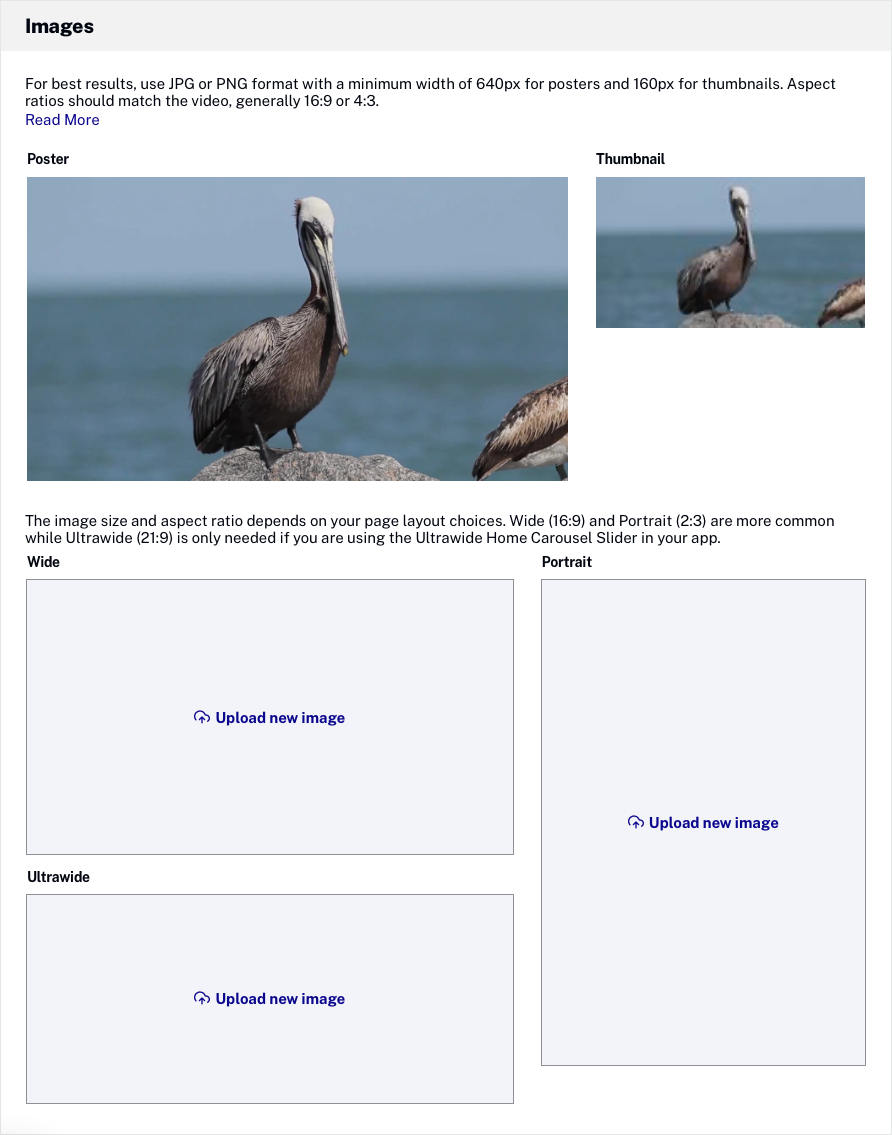
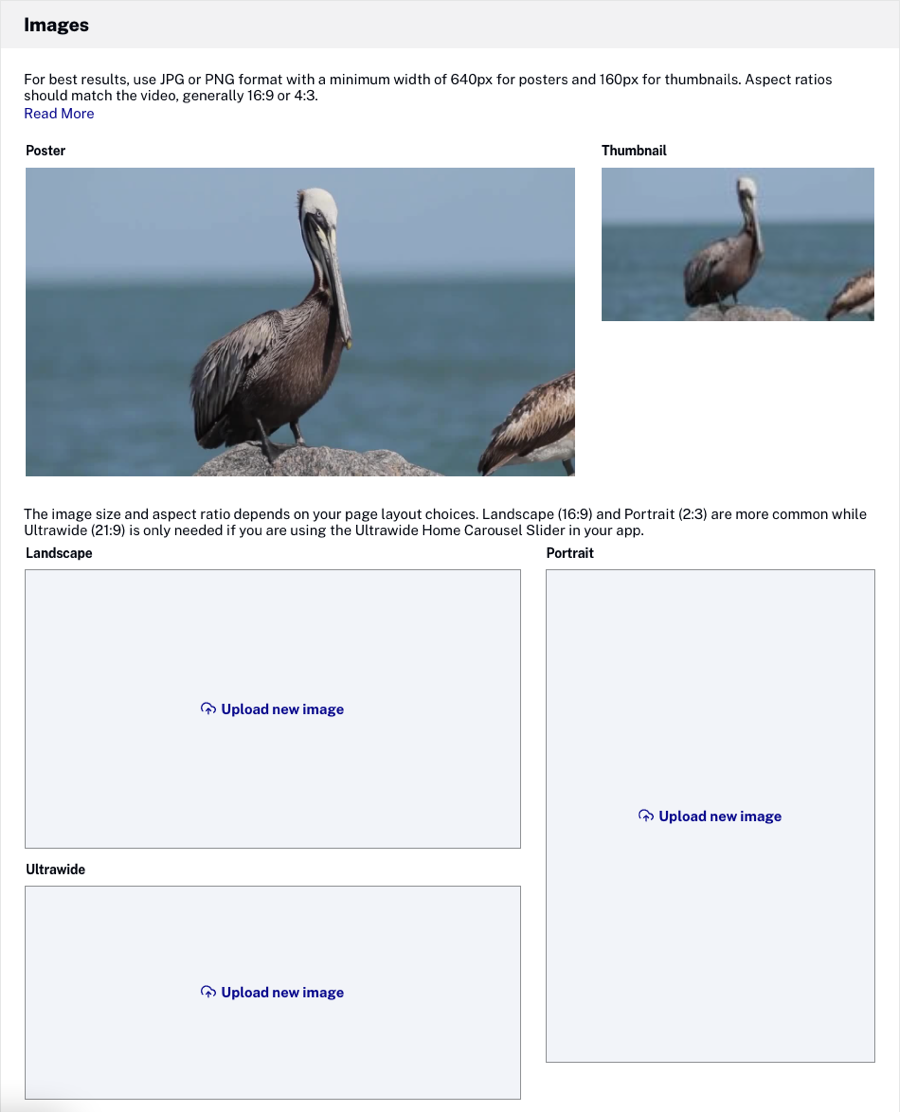
updates

diff --git a/_site/media/editing-video-details.html b/_site/media/editing-video-details.html
@@ -1537,7 +1537,7 @@ function doGTranslate(lang_pair) {if(lang_pair.value)lang_pair=lang_pair.value;i
   </section>
   <section class="bcls-section">
     <h2 id="images">Images</h2>
-    <p>The <strong>Images</strong> tab displays the images for the video. Poster and thumbnail images are created automatically by taking a snapshot from the source video at the midway point. If you don't like the default images that were captured, you can <a href="/media/capturing-poster-and-thumbnail-images.html">capture new images</a> or <a href="/media/uploading-video-images.html">upload other images</a> to use as the poster and thumbnail. Wide, Portrait and Ultra Wide images must be <a href="/media/uploading-video-images.html">manually uploaded</a>. Hover over any image and click the view icon (<img alt="" src="/assets/images/media/icon-eye.png" />) to view the image in a new browser tab.</p>
+    <p>The <strong>Images</strong> tab displays the images for the video. Poster and thumbnail images are created automatically by taking a snapshot from the source video at the midway point. If you don't like the default images that were captured, you can <a href="/media/capturing-poster-and-thumbnail-images.html">capture new images</a> or <a href="/media/uploading-video-images.html">upload other images</a> to use as the poster and thumbnail. Landscape, Portrait and Ultrawide images must be <a href="/media/uploading-video-images.html">manually uploaded</a>. Hover over any image and click the view icon (<img alt="" src="/assets/images/media/icon-eye.png" />) to view the image in a new browser tab.</p>
     <figure class="bcls-figure"><img class="bcls-image--no-border" alt="" src="/assets/images/media/video-details-images.png" /></figure>
   </section>
 </article>

diff --git a/media/editing-video-details.html b/media/editing-video-details.html
@@ -168,7 +168,7 @@ description: In this topic you will learn how to edit video details using the Me
   </section>
   <section class="bcls-section">
     <h2 id="images">Images</h2>
-    <p>The <strong>Images</strong> tab displays the images for the video. Poster and thumbnail images are created automatically by taking a snapshot from the source video at the midway point. If you don't like the default images that were captured, you can <a href="/media/capturing-poster-and-thumbnail-images.html">capture new images</a> or <a href="/media/uploading-video-images.html">upload other images</a> to use as the poster and thumbnail. Wide, Portrait and Ultra Wide images must be <a href="/media/uploading-video-images.html">manually uploaded</a>. Hover over any image and click the view icon (<img alt="" src="/assets/images/media/icon-eye.png" />) to view the image in a new browser tab.</p>
+    <p>The <strong>Images</strong> tab displays the images for the video. Poster and thumbnail images are created automatically by taking a snapshot from the source video at the midway point. If you don't like the default images that were captured, you can <a href="/media/capturing-poster-and-thumbnail-images.html">capture new images</a> or <a href="/media/uploading-video-images.html">upload other images</a> to use as the poster and thumbnail. Landscape, Portrait and Ultrawide images must be <a href="/media/uploading-video-images.html">manually uploaded</a>. Hover over any image and click the view icon (<img alt="" src="/assets/images/media/icon-eye.png" />) to view the image in a new browser tab.</p>
     <figure class="bcls-figure"><img class="bcls-image--no-border" alt="" src="/assets/images/media/video-details-images.png" /></figure>
   </section>
 </article>

diff --git a/media/help/index-video-details.html b/media/help/index-video-details.html
@@ -231,7 +231,7 @@ layout: help
     <ul>
       <li>Displays the images for the video</li>
       <li>Poster and thumbnail images are created automatically; you can <a href="https://beacon-help.support.brightcove.com/media/capturing-poster-and-thumbnail-images.html">capture new images <img src="/assets/images/feather/external-link-blue.svg"  class="external-link-icon" alt="external link"></a> or <a href="https://beacon-help.support.brightcove.com/media/uploading-video-images.html">upload other images <img src="/assets/images/feather/external-link-blue.svg"  class="external-link-icon" alt="external link"></a></li>
-      <li> Wide, Portrait and Ultra Wide images must be <a href="https://beacon-help.support.brightcove.com/media/uploading-video-images.html">manually uploaded <img src="/assets/images/feather/external-link-blue.svg"  class="external-link-icon" alt="external link"></a></li>
+      <li> Landscape, Portrait and Ultrawide images must be <a href="https://beacon-help.support.brightcove.com/media/uploading-video-images.html">manually uploaded <img src="/assets/images/feather/external-link-blue.svg"  class="external-link-icon" alt="external link"></a></li>
       <li> Hover over any image and click <img alt="" src="/assets/images/media/icon-eye.png"> to open the image in a new browser tab</li>
     </ul>
   </section>

diff --git a/_site/media/help/index-video-details.html b/_site/media/help/index-video-details.html
@@ -256,7 +256,7 @@
     <ul>
       <li>Displays the images for the video</li>
       <li>Poster and thumbnail images are created automatically; you can <a href="https://beacon-help.support.brightcove.com/media/capturing-poster-and-thumbnail-images.html">capture new images <img src="/assets/images/feather/external-link-blue.svg"  class="external-link-icon" alt="external link"></a> or <a href="https://beacon-help.support.brightcove.com/media/uploading-video-images.html">upload other images <img src="/assets/images/feather/external-link-blue.svg"  class="external-link-icon" alt="external link"></a></li>
-      <li> Wide, Portrait and Ultra Wide images must be <a href="https://beacon-help.support.brightcove.com/media/uploading-video-images.html">manually uploaded <img src="/assets/images/feather/external-link-blue.svg"  class="external-link-icon" alt="external link"></a></li>
+      <li> Landscape, Portrait and Ultrawide images must be <a href="https://beacon-help.support.brightcove.com/media/uploading-video-images.html">manually uploaded <img src="/assets/images/feather/external-link-blue.svg"  class="external-link-icon" alt="external link"></a></li>
       <li> Hover over any image and click <img alt="" src="/assets/images/media/icon-eye.png"> to open the image in a new browser tab</li>
     </ul>
   </section>

diff --git a/_site/media/howto/uploading-video-images.html b/_site/media/howto/uploading-video-images.html
@@ -1510,7 +1510,7 @@ function doGTranslate(lang_pair) {if(lang_pair.value)lang_pair=lang_pair.value;i
 
 <hr>
 <div id="last_updated" class="last-updated">
-  Page last updated on 14 Sep 2021
+  Page last updated on 12 Oct 2021
 </div>
 
 

diff --git a/_site/media/uploading-video-images.html b/_site/media/uploading-video-images.html
@@ -1444,7 +1444,7 @@ function doGTranslate(lang_pair) {if(lang_pair.value)lang_pair=lang_pair.value;i
 
 <hr>
 <div id="last_updated" class="last-updated">
-  Page last updated on 24 Jun 2021
+  Page last updated on 12 Oct 2021
 </div>
 
 
